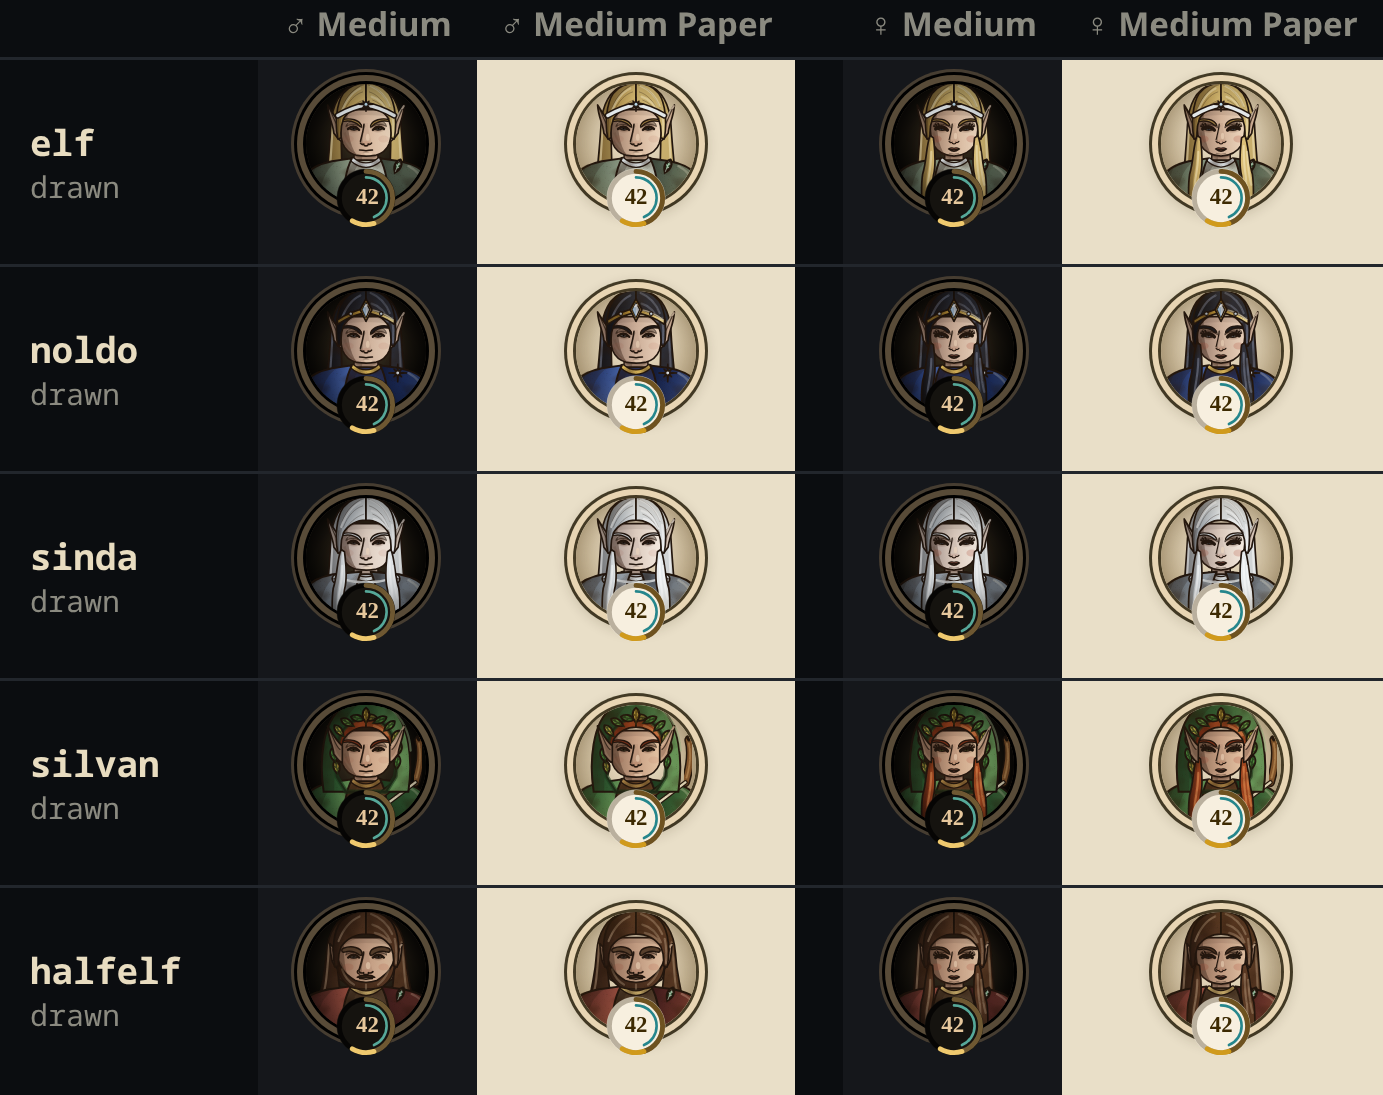
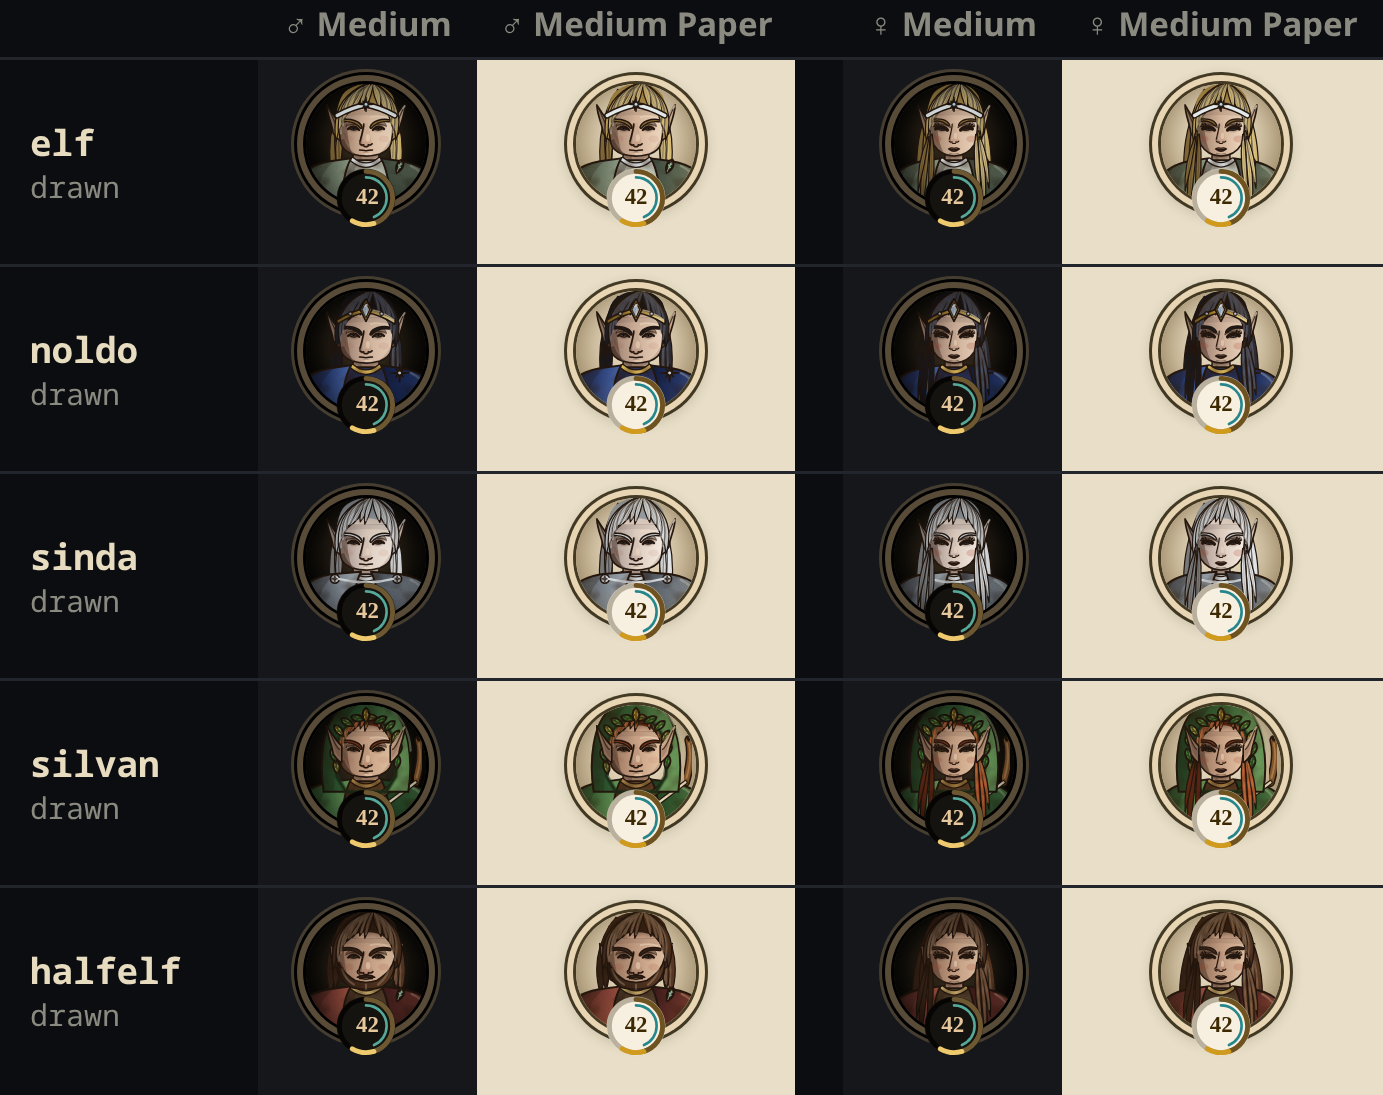
feat(portraits): elves' hair as locks, men and women apart, a calmer half-elf
Claude-Session: https://claude.ai/code/session_01Fx3riSE2eMf87VxUMhb19J

diff --git a/notes/research/portraits/stage/draw/elves.ts b/notes/research/portraits/stage/draw/elves.ts
@@ -113,7 +113,7 @@ const starBrooch = (c: Ctx, x: number, y: number): string =>
 
 // ---- the neck ----
 const neck = (c: Ctx, s: Spec): string => {
-  const k = c.fem ? .74 : s.man ? 1.05 : .96;
+  const k = c.fem ? .72 : s.man ? 1.1 : 1.04;
   const N = wx('M-20,30L-22,60L22,60L20,30Z', k);
   return `<path d="${N}" fill="${dark(s.skin[1], .16)}" stroke-width="1"/><path d="${wx('M-20,30L-22,60L-8,60L-6,44Z', k)}" fill="${c.url('p')}" stroke="none"/>` +
     `<path d="${wx('M-20,38Q0,54 20,38L20,48Q0,60 -20,48Z', k)}" fill="#4e2f20" opacity=".22" stroke="none"/>` +
@@ -138,9 +138,9 @@ const faceShape = (c: Ctx, s: Spec): { F: string; sh: string; edge: string } => 
     };
   }
   return {
-    F: wx('M-44,-32C-47,-8 -46,12 -41,26C-37,36 -28,43 -16,46Q-8,47 0,47Q8,47 16,46C28,43 37,36 41,26C46,12 47,-8 44,-32Z', j),
-    sh: wx('M-44,-32C-47,-8 -46,12 -41,26C-37,36 -28,43 -16,46C-30,28 -33,0 -33,-32Z', j),
-    edge: wx('M-44,-32C-47,-8 -46,12 -41,26C-44,10 -44,-6 -41,-32Z', j),
+    F: wx('M-45,-32C-48,-8 -47,10 -44,24C-42,32 -36,39 -24,43.5Q-12,47 0,47Q12,47 24,43.5C36,39 42,32 44,24C47,10 48,-8 45,-32Z', j),
+    sh: wx('M-45,-32C-48,-8 -47,10 -44,24C-42,32 -36,39 -24,43.5C-31,26 -34,0 -34,-32Z', j),
+    edge: wx('M-45,-32C-48,-8 -47,10 -44,24C-45,10 -45,-6 -42,-32Z', j),
   };
 };
 
@@ -149,10 +149,11 @@ const face = (c: Ctx, s: Spec): string => {
   // the chin's soft shadow, the high cheekbone of an elf (a tone under it, a fine line)
   const chin = c.fem
     ? `<path d="${wx('M-30,38C-20,45 -8,47 0,47C10,47 22,44 30,38C22,46 10,50 0,50C-10,50 -22,46 -30,38Z', j)}" fill="#4e2f20" opacity=".22" stroke="none"/><path d="M-8,42.5Q0,45.5 8,42.5" fill="none" stroke-width=".6" opacity=".4"/>`
-     : `<path d="${wx('M-41,22C-36,34 -26,42 -12,45.5C-22,40 -32,32 -38,20Z', j)}" fill="#4e2f20" opacity=".22" stroke="none"/><ellipse cx="4" cy="43" rx="7" ry="2.6" fill="#f3dcc0" opacity=".45" stroke="none"/>` + c.fine(`<path d="${wx('M-40,22C-35,33 -26,41 -14,45', j)}" fill="none" stroke-width=".6" opacity=".5"/>`);
+     : `<path d="${wx('M-44,20C-42,32 -34,40 -14,46.5C-24,40 -34,32 -38,18Z', j)}" fill="#4e2f20" opacity=".34" stroke="none"/><path d="${wx('M-44,20C-42,32 -34,40 -14,46.5C-24,40 -34,32 -38,18Z', j)}" fill="${c.url('p')}" stroke="none"/><path d="${wx('M44,20C42,32 34,40 16,46.5C26,41 34,34 40,22Z', j)}" fill="#4e2f20" opacity=".16" stroke="none"/>` +
+       `<path d="M-36,-6Q-21,-11 -7,-5Q-21,-2 -36,-6ZM36,-6Q21,-11 7,-5Q21,-2 36,-6Z" fill="#4e2f20" opacity=".16" stroke="none"/><path d="M8,-19Q22,-23 36,-18" fill="none" stroke="#f3dcc0" stroke-width="1.2" opacity=".45"/><ellipse cx="4" cy="43" rx="7" ry="2.6" fill="#f3dcc0" opacity=".45" stroke="none"/>` + c.fine(`<path d="${wx('M-43,22C-40,33 -30,41 -14,46', j)}" fill="none" stroke-width=".7" opacity=".6"/>`);
   const cheek = s.man ? '' : `<path d="${wx('M-40,8C-36,18 -32,24 -26,30C-30,22 -34,14 -36,6Z', j)}" fill="#4e2f20" opacity=".16" stroke="none"/>` +
     c.fine(`<path d="${wx('M-39,6C-36,14 -33,20 -28,27M39,6C36,14 33,20 28,27', j)}" fill="none" stroke-width=".55" opacity="${c.fem ? .25 : .45}"/>`);
-  const lines = s.man && !c.fem ? c.fine(`<path d="M-20,20C-27,22 -32,28 -34,34M20,20C27,22 32,28 34,34" fill="none" stroke-width=".6" opacity=".6"/>`) : '';
+  const lines = '';
   return `<path d="${F}" fill="${c.url('s')}" stroke-width="1.1"/><path d="${sh}" fill="#4e2f20" opacity=".2" stroke="none"/><path d="${sh}" fill="${c.url('p')}" stroke="none"/><path d="${edge}" fill="${c.url('q')}" stroke="none"/>` +
     `<path d="${wx('M-44,-30Q0,-36 44,-30L44,-20Q0,-26 -44,-20Z', j)}" fill="#3d281b" opacity=".1" stroke="none"/>` +
     `<ellipse cx="-30" cy="18" rx="9" ry="6" fill="#9c4a36" opacity="${blush}" stroke="none"/><ellipse cx="30" cy="18" rx="9" ry="6" fill="#b25a44" opacity="${blush}" stroke="none"/>` +
@@ -162,7 +163,7 @@ const face = (c: Ctx, s: Spec): string => {
 // ---- the nose: long and straight, drawn by its shadow side (a Man's on the half-elf) ----
 const nose = (c: Ctx, s: Spec): string => {
   const [sk0, sk1] = s.skin;
-  const t = c.fem ? 'translate(0,-1) scale(.88,.92)' : s.man ? 'scale(1.22,1.04)' : 'scale(1)';
+  const t = c.fem ? 'translate(0,-1) scale(.86,.9)' : s.man ? 'scale(1.22,1.04)' : 'scale(1.1,1.05)';
   return `<g transform="${t}"><path d="M-3,-9C-4,4 -7,14 -9,22C-10,28 -6,31 0,30.5C6,31 10,28 9,22C7,14 4,4 3,-9Z" fill="${mix(sk0, sk1, .7)}" opacity=".5" stroke="none"/>` +
     `<path d="M-3,-9C-4,4 -7,14 -9,22C-10,27 -8,29.5 -5,30C-7,22 -5,8 -1,-4Z" fill="${c.url('p')}" stroke="none"/>` +
     `<path d="M-3.5,-7C-4.5,4 -7.5,14 -9.5,22" fill="none" stroke-width="${c.fem ? .85 : 1}"/><ellipse cx="3" cy="15" rx="3.2" ry="6" fill="#f3dcc0" opacity=".5" stroke="none"/>` +
@@ -205,34 +206,64 @@ const ear = (c: Ctx, s: Spec, side: number): string => {
     `<path d="${H}" fill="none" stroke-width=".8" opacity=".75"/>`;
 };
 
-// ---- hair: the crown over the forehead, parted in the middle, tucked behind the ears ----
-const CAP = 'M0,-38C-16,-38 -32,-30 -40,-16C-44,-6 -45,6 -44,16L-50,18C-55,-8 -53,-42 -40,-60C-30,-72 -16,-77 0,-77Z';
-const cap = (c: Ctx, s: Spec): string => {
-  const j = s.jaw * (s.man ? 1.04 : 1), L = wx(CAP, j), [, h1, hi] = s.hair;
-  const dk = wx('M-4,-74C-20,-70 -34,-56 -42,-36M-6,-62C-20,-58 -32,-46 -40,-26M-4,-48C-18,-44 -30,-34 -40,-16M4,-74C20,-70 34,-56 42,-36M6,-62C20,-58 32,-46 40,-26M12,-48C24,-44 34,-34 42,-16M-48,-20C-50,-6 -50,6 -48,14', j);
+// ---- hair: built of locks, never a smooth cap ----
+// A lock is a spindle: narrow at its root (hidden under its neighbours at
+// the parting or the crown), full in the middle, a point at its tip; `bend`
+// (a fraction of its length) bows it outward. The crown's deep tone shows in
+// the gaps; the lit (right) locks are lighter and carry the sheen strands.
+/** root x, y; tip x, y; full width; bend (+ bows to the lock's left as it runs root→tip). */
+type Lock = readonly [number, number, number, number, number, number];
+const lockPath = ([x0, y0, x1, y1, w, bend]: Lock, j: number): { d: string; mid: string } => {
+  const dx = x1 - x0, dy = y1 - y0, L = Math.hypot(dx, dy) || 1, nx = -dy / L, ny = dx / L;
+  const cx = (x0 + x1) / 2 + nx * bend * L, cy = (y0 + y1) / 2 + ny * bend * L, r = w * .12;
+  const X = (v: number): number => n(v * j);
+  const d = `M${X(x0 + nx * r)},${n(y0 + ny * r)}Q${X(cx + nx * w)},${n(cy + ny * w)} ${X(x1)},${n(y1)}Q${X(cx - nx * w)},${n(cy - ny * w)} ${X(x0 - nx * r)},${n(y0 - ny * r)}Z`;
+  const mid = `M${X(x0 + dx * .12 + nx * bend * L * .2)},${n(y0 + dy * .12 + ny * bend * L * .2)}Q${X(cx)},${n(cy)} ${X(x0 + dx * .86)},${n(y0 + dy * .86)}`;
+  return { d, mid };
+};
+/** A set of locks: each filled by side (shadow on the left), the outer left ones hatched, a strand on each. */
+const lockSet = (c: Ctx, s: Spec, set: readonly Lock[], j: number): string => {
+  const [h0, h1, hi] = s.hair;
+  let body = '', dk = '', lt = '';
+  set.forEach((k, i) => {
+    const { d, mid } = lockPath(k, j), x = (k[0] + k[2]) / 2;
+    const t = Math.max(0, Math.min(1, (x + 40) / 80));
+    const fill = mix(mix(h0, h1, .3 + .65 * t), '#1a110b', i % 3 === 1 ? .1 : 0);
+    body += `<path d="${d}" fill="${fill}" stroke-width="${c.med ? .8 : .95}"/>` + (x < -30 ? `<path d="${d}" fill="${c.url('p')}" stroke="none"/>` : '');
+    dk += mid;
+    if (x > -24) lt += mid;
+  });
+  return body + strands(c, dk, lt, hi, .75) + (s.softHair && c.med ? `<path d="${dk}" fill="none" stroke-width=".5" opacity=".3"/>` : '');
+};
 
-  return mass(L, c.url('h'), 1.1, wx('M0,-77C-16,-77 -30,-72 -40,-60C-53,-42 -55,-8 -50,18L-44,16C-48,-10 -42,-38 -24,-60C-16,-68 -8,-74 0,-77Z', j), c) +
-    `<path d="${mir(L)}" fill="${mix(h1, '#1a110b', .06)}" stroke-width="1.1"/>` +
-    `<path d="M0,-38C-16,-38 -32,-30 -40,-16C-30,-26 -16,-32 0,-33C16,-32 30,-26 40,-16C32,-30 16,-38 0,-38Z" fill="#3d281b" opacity=".16" stroke="none"/>` +
-    (s.softHair ? `<path d="${dk}" fill="none" stroke-width=".5" opacity="${c.med ? .4 : .35}"/>` : '') +
-    strands(c, dk,
-      wx('M-10,-68C-24,-62 -36,-48 -44,-26M8,-72C24,-66 36,-52 42,-38M10,-54C24,-50 34,-40 40,-24M46,-30C49,-14 49,0 48,12M14,-40C24,-38 32,-32 38,-24', j), hi);
+/** The crown's locks: a fan from a side parting a little right of centre, tips on an uneven hairline and behind the ears. */
+const P0 = [10, -79] as const;
+const fan = (tips: readonly (readonly [number, number, number, number])[]): Lock[] => tips.map(([x, y, w, b]) => [P0[0] + (x < 10 ? -2 : 2), P0[1] + 2, x, y, w, b] as Lock);
+const CROWN_LOCKS: readonly Lock[] = [
+  // the outer locks make the crown's outline; draw them first
+  ...fan([[-52, 22, 15, .3], [52, 20, 14, -.28], [-48, 6, 14, .24], [48, 4, 13, -.22]]),
+  // then inward to the hairline, uneven
+  ...fan([[-42, -10, 14, .2], [44, -12, 13, -.17], [-34, -24, 13, .15], [36, -26, 12, -.12], [-22, -32, 12, .1], [24, -34, 10, -.08], [-10, -35, 10, .07]]),
+  // a forelock falling over the brow and a lock crossing the others
+  [12, -78, -2, -31, 8, .06], [-4, -70, -30, -26, 7, -.08],
+];
+const cap = (c: Ctx, s: Spec): string => {
+  const j = s.jaw * (s.man ? 1.04 : 1);
+  return `<path d="${wx('M-40,-30C-40,-50 -22,-60 2,-60C26,-60 42,-50 42,-30Z', j)}" fill="${s.skin[1]}" stroke="none"/><path d="${wx('M-40,-30C-40,-50 -22,-60 2,-60C-14,-56 -24,-46 -26,-30Z', j)}" fill="#4e2f20" opacity=".2" stroke="none"/>` +
+    `<path d="${wx('M4,-41C-16,-41 -32,-33 -42,-19C-46,-8 -47,4 -47,16L-50,16C-54,-8 -52,-40 -40,-58C-30,-70 -14,-76 6,-76C24,-76 38,-68 46,-56C54,-40 54,-10 50,16L47,16C47,4 46,-8 42,-18C34,-32 22,-41 4,-41Z', j)}" fill="${mix(s.hair[0], s.hair[1], .2)}" stroke="none"/>` +
+    lockSet(c, s, CROWN_LOCKS, j);
 };
-/** The back of the hair: one smooth fall from the crown down behind the shoulders (under the face). */
+/** The back of the hair: locks falling behind the shoulders, the women's wider and longer, the men's close to the neck (as if tied back). */
 const backHair = (c: Ctx, s: Spec): string => {
-  const j = s.jaw * (s.man ? 1.06 : 1), L = s.len, [, h1, hi] = s.hair;
-  const B = wx(`M-20,-74C-46,-66 -60,-40 -62,-6C-64,30 -68,${n(L * .6)} -72,${L}L-40,${L}C-44,${n(L * .6)} -44,30 -44,0Z`, j);
-  return `<path d="${B}" fill="${c.url('h')}" stroke-width="1.1"/><path d="${B}" fill="${c.url('p')}" stroke="none"/><path d="${mir(B)}" fill="${mix(h1, '#1a110b', .1)}" stroke-width="1.1"/>` +
-    strands(c, wx(`M-52,-30C-56,0 -56,40 -60,${L - 6}M-48,0C-50,30 -50,60 -52,${L - 4}M52,-30C56,0 56,40 60,${L - 6}M48,0C50,30 50,60 52,${L - 4}`, j), wx(`M-58,-20C-60,10 -62,50 -66,${L - 8}M56,-24C60,6 60,46 64,${L - 10}`, j), hi);
+  const j = s.jaw * (s.man ? 1.06 : 1), L = s.len, w = c.fem ? 1 : .84;
+  const side = (m: number): Lock[] => ([
+    [-30, -66, -58 * w, L * .7, 15, .1], [-40, -52, -66 * w, L, 16, .08], [-46, -34, -54 * w, L - 14, 13, .03], [-44, -14, -48, L * .85, 11, .02],
+  ] as Lock[]).map(([a, b, x, y, ww, bd]) => [a * m, b, x * m, y, ww, bd * m] as Lock);
+  return lockSet(c, s, [...side(1), ...side(-1)], j);
 };
-/** The long locks in front of the shoulders. */
-const locks = (c: Ctx, s: Spec): string => {
-  const j = s.jaw, [, h1, hi] = s.hair;
-  const K = wx('M-44,12C-52,30 -50,54 -58,78C-62,100 -58,124 -62,150L-40,150C-38,124 -42,100 -38,80C-32,58 -36,34 -38,16Z', j);
-  return `<path d="${K}" fill="${c.url('h')}" stroke-width="1.1"/><path d="${wx('M-44,12C-52,30 -50,54 -58,78C-62,100 -58,124 -62,150L-54,150C-52,124 -54,100 -50,78C-44,56 -46,32 -42,14Z', j)}" fill="${c.url('p')}" stroke="none"/><path d="${mir(K)}" fill="${h1}" stroke-width="1.1"/>` +
-    strands(c, wx('M-44,24C-46,44 -46,62 -52,82C-54,104 -52,124 -54,148M-40,30C-40,50 -40,64 -46,84C-48,106 -46,124 -48,148M44,24C46,44 46,62 52,82C54,104 52,124 54,148', j),
-      wx('M-42,40C-42,56 -44,70 -48,90C-50,108 -48,126 -50,146M42,30C42,48 42,62 46,82C48,104 46,124 48,146M48,40C50,60 50,76 56,96', j), hi);
-};
+/** The women's locks in front of the shoulders: three a side, tapering to points at different lengths, crossing a little. */
+const FRONT: readonly Lock[] = [[-46, 4, -62, 150, 10, .03], [-42, 10, -48, 128, 9, -.04], [-48, 14, -68, 108, 8, .05], [46, 4, 58, 146, 9, -.03], [42, 10, 50, 120, 9, .04], [48, 14, 66, 102, 8, -.05]];
+const locks = (c: Ctx, s: Spec): string => lockSet(c, s, FRONT, s.jaw);
 
 // ---- headgear ----
 /** The base elf's: a thin silver fillet with the star of Elbereth (the balloon elf's). */
@@ -274,7 +305,7 @@ const draw = (s: Spec): Draw => (o) => {
   const soft = s.softHair, paleCloth = s.paleCloth;
   const j = s.jaw * (s.man ? 1.04 : 1);
   const eo: EyeO = { lidFill: dark(s.skin[1], .1), lowFill: s.skin[1], ...s.eye, lash: c.fem, size: c.fem ? 1.06 : 1 };
-  const under = s.man ? '.55' : '.12';
+  const under = s.man ? '.2' : '.12';
   const tilted = (side: number): string => `<g transform="rotate(${-side * s.tilt} ${21 * side} 0)">${eye(c, side, eo).replace('opacity=".8"/>', `opacity="${under}"/>`)}</g>`;
   const head = s.head === 'fillet' ? pen(c, fillet(c, j), true) : s.head === 'circlet' ? pen(c, circlet(c, j)) : s.head === 'hood' ? pen(c, hood(c, s)) : '';
   const body =
@@ -295,9 +326,9 @@ const draw = (s: Spec): Draw => (o) => {
 // ---- the elf, the three kindreds, the half-elf; the men and the women ----
 const BASE: Spec = {
   skin: ['#9c7e6a', '#d4b49a', '#eed8c0'], hair: ['#9a7a3a', '#dcc078', '#fbf0c8'],
-  brow: { thin: true, sc: 1.12, rot: 6, fill: '#9a7a40', hi: '#f0dca0', dy: -1 }, eye: { iris: '#4f7088', lid: 2.4 },
+  brow: { thin: true, sc: 1.2, rot: 8, fill: '#8a6a32', hi: '#f0dca0', dy: .5 }, eye: { iris: '#4f7088', lid: 2.4 },
   head: 'fillet', cloak: ['#3c473c', '#5f6d5a', '#8f9c86'], tunic: '#cfd4c6', trim: SILVER, brooch: 'leaf',
-  ear: 1, man: false, beard: false, locks: false, len: 104, bow: false, softHair: true, paleCloth: false, jaw: .96, wide: 1, tilt: 5,
+  ear: 1, man: false, beard: false, locks: false, len: 96, bow: false, softHair: true, paleCloth: false, jaw: .98, wide: 1.06, tilt: 5,
 };
 const NOLDO: Spec = {
   ...BASE, skin: ['#94786a', '#ccae98', '#ead2bc'], hair: ['#0e0f14', '#30323c', '#8a90a4'], softHair: false,
@@ -307,7 +338,7 @@ const NOLDO: Spec = {
 const SINDA: Spec = {
   ...BASE, skin: ['#a2928c', '#dccbbe', '#f6ece2'], hair: ['#868d94', '#e8ecee', '#ffffff'],
   brow: { ...BASE.brow, fill: '#c4c8cc', hi: '#ffffff' }, eye: { iris: '#5c6f80', lid: 3 },
-  head: 'none', cloak: ['#454c54', '#737c86', '#a4acb4'], tunic: '#c8ccd0', trim: SILVER, brooch: 'clasps', locks: true, len: 120,
+  head: 'none', cloak: ['#454c54', '#737c86', '#a4acb4'], tunic: '#c8ccd0', trim: SILVER, brooch: 'clasps', len: 110,
 };
 const SILVAN: Spec = {
   ...BASE, skin: ['#90705a', '#c8a084', '#e6c6a6'], hair: ['#5a2010', '#a84a22', '#f0a060'], softHair: false,
@@ -316,12 +347,12 @@ const SILVAN: Spec = {
 };
 const HALF: Spec = {
   ...BASE, skin: ['#8e6c56', '#c09a80', '#e0c0a2'], hair: ['#2e1c12', '#5e3c26', '#b89a7c'], softHair: false,
-  brow: { fill: '#3a2618', hi: '#9a7a5c', sc: 1.1, dy: 1 }, eye: { iris: '#4a5862', lid: 2.6 },
+  brow: { thin: true, fill: '#3a2618', hi: '#9a7a5c', sc: 1.26, rot: 4, dy: .5 }, eye: { iris: '#4a5862', lid: 2.6 },
   head: 'none', cloak: ['#3a1a1a', '#66302a', '#985040'], tunic: '#5a4430', trim: '#c4a868', brooch: 'leaf',
   ear: .3, man: true, beard: true, len: 66, jaw: 1.02, wide: 1.08, tilt: 0,
 };
 /** The women: the same kindred, a narrower face, slender brows, the long locks in front. */
-const fem = (s: Spec, brow: BrowO = {}): Spec => ({ ...s, brow: { ...s.brow, thin: true, sc: 1.08, rot: 3, dy: -1.5, ...brow }, jaw: s.man ? .96 : .92, locks: true, len: Math.max(s.len, 112), beard: false, wide: s.wide * .94 });
+const fem = (s: Spec, brow: BrowO = {}): Spec => ({ ...s, brow: { ...s.brow, thin: true, sc: 1.08, rot: 3, dy: -1.5, ...brow }, jaw: s.man ? .94 : .9, locks: true, len: Math.max(s.len, 112), beard: false, wide: s.wide * .9 });
 const FEM: Readonly<Record<string, Spec>> = {
   elf: fem(BASE),
   noldo: fem(NOLDO),
